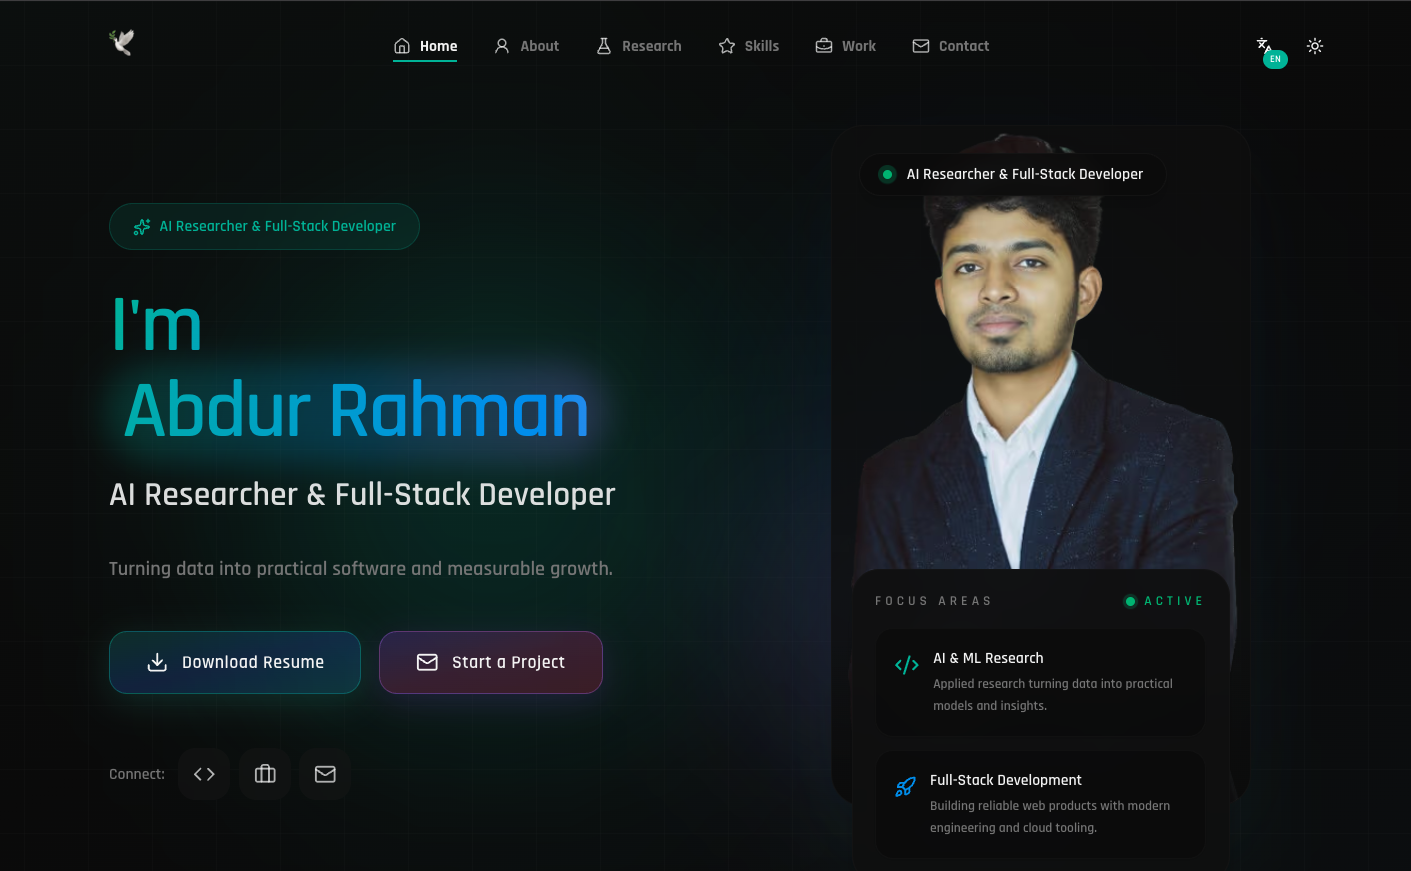
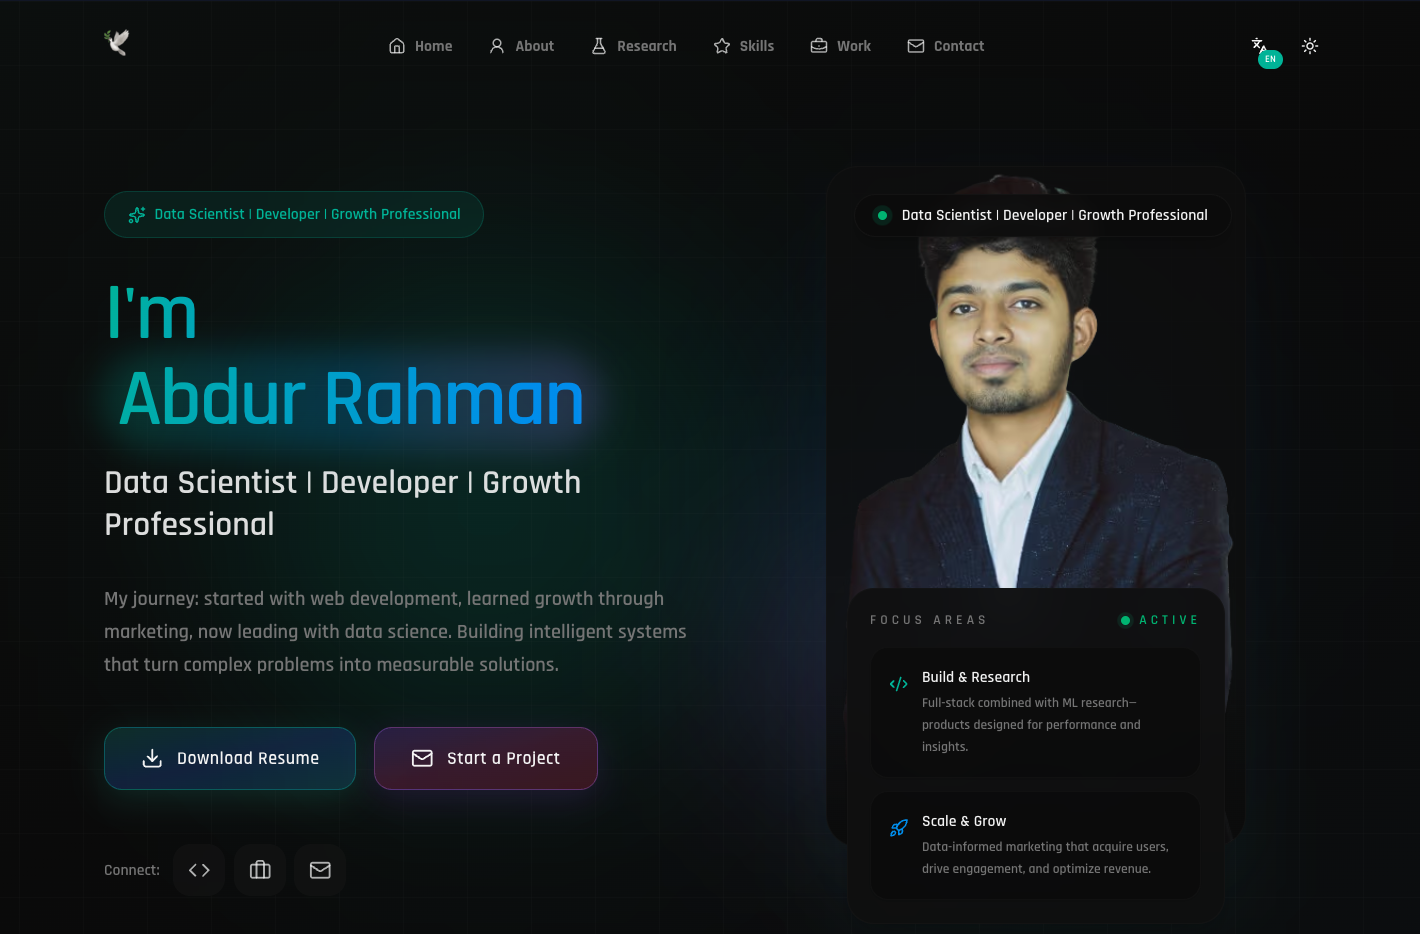
Update profile bio and image
Refine README subtitle from 'Data Science Researcher | Developer | Growing Partner' to 'Data Scientist | Developer | Growth Professional' for clearer branding, and replace assets/abdurrahman.png with an updated profile image.

diff --git a/README.md b/README.md
@@ -2,7 +2,7 @@
 
 # Abdur Rahman
 
-## Data Science Researcher | Developer | Growing Partner
+## Data Scientist | Developer | Growth Professional
 
 ---
 
